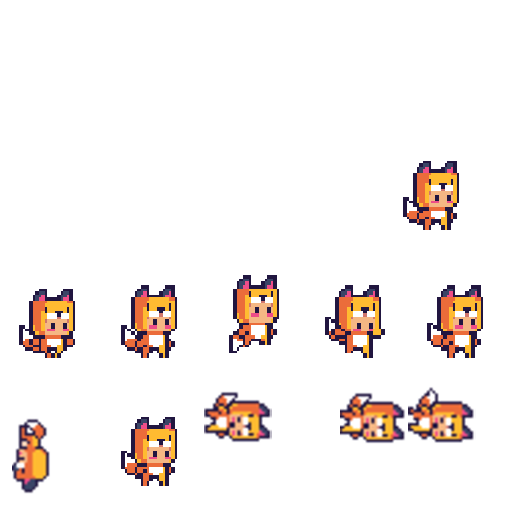
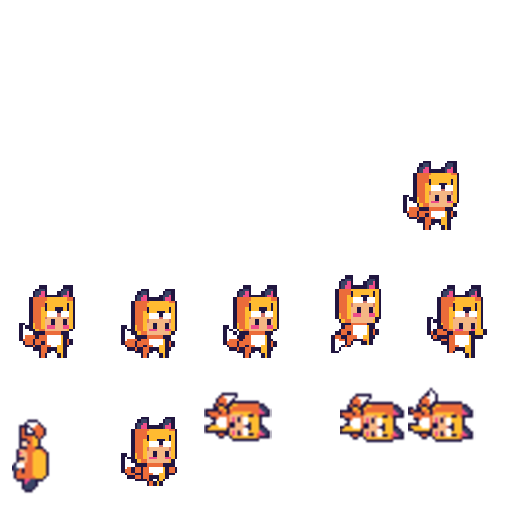
Add files via upload

diff --git a/jogofox/scripts/c3runtime.js b/jogofox/scripts/c3runtime.js
@@ -1259,6 +1259,11 @@ self["C3_Shaders"] = {};
 {const e=self.C3;e.Behaviors.scrollto=class extends e.SDKBehaviorBase{constructor(e){super(e),this._shakeMag=0,this._shakeStart=0,this._shakeEnd=0,this._shakeMode=0}Release(){super.Release()}SetShakeMagnitude(e){this._shakeMag=e}GetShakeMagnitude(){return this._shakeMag}SetShakeStart(e){this._shakeStart=e}GetShakeStart(){return this._shakeStart}SetShakeEnd(e){this._shakeEnd=e}GetShakeEnd(){return this._shakeEnd}SetShakeMode(e){this._shakeMode=e}GetShakeMode(){return this._shakeMode}}}{const e=self.C3;e.Behaviors.scrollto.Type=class extends e.SDKBehaviorTypeBase{constructor(e){super(e)}Release(){super.Release()}OnCreate(){}}}{const e=self.C3,t=0;e.Behaviors.scrollto.Instance=class extends e.SDKBehaviorInstanceBase{constructor(e,s){super(e),this._isEnabled=!0,s&&(this._isEnabled=s[t]),this._isEnabled&&this._StartTicking2()}Release(){super.Release()}SaveToJson(){const e=this.GetBehavior();return{"e":this._isEnabled,"smg":e.GetShakeMagnitude(),"ss":e.GetShakeStart(),"se":e.GetShakeEnd(),"smd":e.GetShakeMode()}}LoadFromJson(e){const t=this.GetBehavior();t.SetShakeMagnitude(e["smg"]),t.SetShakeStart(e["ss"]),t.SetShakeEnd(e["se"]),t.SetShakeMode(e["smd"]),this._isEnabled=e["e"],this._isEnabled?this._StartTicking2():this._StopTicking2()}_SetEnabled(e){this._isEnabled=!!e,this._isEnabled?this._StartTicking2():this._StopTicking2()}IsEnabled(){return this._isEnabled}Tick2(){if(!this.IsEnabled())return;const t=this.GetBehavior(),s=t.GetInstances();let a=0,i=0,h=0,n=0;for(const t of s){const s=t.GetBehaviorInstanceFromCtor(e.Behaviors.scrollto);if(!s||!s.GetSdkInstance().IsEnabled())continue;n=Math.max(n,t.GetActiveTimeScale());const r=t.GetWorldInfo();a+=r.GetX(),i+=r.GetY(),++h}const r=this._inst.GetWorldInfo().GetLayout(),o=this._runtime.GetGameTime();let S=0,l=0;const d=(t.GetShakeEnd()-t.GetShakeStart())/n;if(o>=t.GetShakeStart()&&o<t.GetShakeStart()+d&&n>0){let e=t.GetShakeMagnitude()*Math.min(n,1);0===t.GetShakeMode()&&(e*=1-(o-t.GetShakeStart())/d);const s=this._runtime.Random()*Math.PI*2,a=this._runtime.Random()*e;S=Math.cos(s)*a,l=Math.sin(s)*a}r.SetScrollX(a/h+S),r.SetScrollY(i/h+l)}GetPropertyValueByIndex(e){if(e===t)return this._isEnabled}SetPropertyValueByIndex(e,s){if(e===t)this._isEnabled=!!s,this._isEnabled?this._StartTicking2():this._StopTicking2()}GetDebuggerProperties(){return[{title:"$"+this.GetBehaviorType().GetName(),properties:[{name:"behaviors.scrollto.properties.enabled.name",value:this.IsEnabled(),onedit:e=>this._SetEnabled(e)}]}]}}}self.C3.Behaviors.scrollto.Cnds={IsEnabled(){return this.IsEnabled()}};self.C3.Behaviors.scrollto.Acts={Shake(e,t,s){const a=this.GetBehavior();a.SetShakeMagnitude(e),a.SetShakeStart(this._runtime.GetGameTime()),a.SetShakeEnd(this._runtime.GetGameTime()+t),a.SetShakeMode(s)},SetEnabled(e){this._SetEnabled(0!==e)}};self.C3.Behaviors.scrollto.Exps={};
 }
 
+// scripts/behaviors/Sin/c3runtime/runtime.js
+{
+{const e=self.C3;e.Behaviors.Sin=class extends e.SDKBehaviorBase{constructor(e){super(e)}Release(){super.Release()}}}{const e=self.C3;e.Behaviors.Sin.Type=class extends e.SDKBehaviorTypeBase{constructor(e){super(e)}Release(){super.Release()}OnCreate(){}}}{const e=self.C3,t=self.C3X,i=self.IBehaviorInstance,s=0,a=1,n=2,h=3,_=4,r=5,o=6,l=7,u=8,d=0,m=1,g=2,v=3,c=4,p=5,G=6,b=7,S=8,V=9,w=0,P=1,M=2,I=3,f=4,k=2*Math.PI,W=Math.PI/2,R=3*Math.PI/2,E=[0,1,8,3,4,2,5,6,9,7];e.Behaviors.Sin.Instance=class extends e.SDKBehaviorInstanceBase{constructor(t,i){super(t),this._i=0,this._movement=0,this._wave=0,this._period=0,this._mag=0,this._isEnabled=!0,this._basePeriod=0,this._basePeriodOffset=0,this._baseMag=0,this._periodRandom=0,this._periodOffsetRandom=0,this._magnitudeRandom=0,this._initialValue=0,this._initialValue2=0,this._lastKnownValue=0,this._lastKnownValue2=0,this._ratio=0,i&&(this._movement=E[i[s]],this._wave=i[a],this._periodRandom=this._runtime.Random()*i[h],this._basePeriod=i[n],this._period=i[n],this._period+=this._periodRandom,this._basePeriodOffset=i[_],0!==this._period&&(this._periodOffsetRandom=this._runtime.Random()*i[r],this._i=i[_]/this._period*k,this._i+=this._periodOffsetRandom/this._period*k),this._magnitudeRandom=this._runtime.Random()*i[l],this._baseMag=i[o],this._mag=i[o],this._mag+=this._magnitudeRandom,this._isEnabled=!!i[u]),this._movement===p&&(this._mag=e.toRadians(this._mag)),this.Init(),this._isEnabled&&this._StartTicking()}Release(){super.Release()}SaveToJson(){return{"i":this._i,"e":this._isEnabled,"mv":this._movement,"w":this._wave,"p":this._period,"mag":this._mag,"iv":this._initialValue,"iv2":this._initialValue2,"r":this._ratio,"lkv":this._lastKnownValue,"lkv2":this._lastKnownValue2}}LoadFromJson(e){this._i=e["i"],this._SetEnabled(e["e"]),this._movement=e["mv"],this._wave=e["w"],this._period=e["p"],this._mag=e["mag"],this._initialValue=e["iv"],this._initialValue2=e["iv2"],this._ratio=e["r"],this._lastKnownValue=e["lkv"],this._lastKnownValue2=e["lkv2"]}Init(){const e=this._inst.GetWorldInfo();switch(this._movement){case d:this._initialValue=e.GetX();break;case m:this._initialValue=e.GetY();break;case g:this._initialValue=e.GetWidth(),this._ratio=e.GetHeight()/e.GetWidth();break;case v:this._initialValue=e.GetWidth();break;case c:this._initialValue=e.GetHeight();break;case p:this._initialValue=e.GetAngle();break;case G:this._initialValue=e.GetOpacity();break;case b:this._initialValue=0;break;case S:this._initialValue=e.GetX(),this._initialValue2=e.GetY();break;case V:this._initialValue=e.GetZ()}this._lastKnownValue=this._initialValue,this._lastKnownValue2=this._initialValue2}WaveFunc(e){switch(e%=k,this._wave){case w:return Math.sin(e);case P:return e<=W?e/W:e<=R?1-2*(e-W)/Math.PI:(e-R)/W-1;case M:return 2*e/k-1;case I:return-2*e/k+1;case f:return e<Math.PI?-1:1}return 0}Tick(){const e=this._runtime.GetDt(this._inst);this._isEnabled&&0!==e&&(0===this._period?this._i=0:this._i=(this._i+e/this._period*k)%k,this._UpdateFromPhase())}_UpdateFromPhase(){const t=this._inst.GetWorldInfo();switch(this._movement){case d:t.GetX()!==this._lastKnownValue&&(this._initialValue+=t.GetX()-this._lastKnownValue),t.SetX(this._initialValue+this.WaveFunc(this._i)*this._mag),this._lastKnownValue=t.GetX();break;case m:t.GetY()!==this._lastKnownValue&&(this._initialValue+=t.GetY()-this._lastKnownValue),t.SetY(this._initialValue+this.WaveFunc(this._i)*this._mag),this._lastKnownValue=t.GetY();break;case g:t.SetWidth(this._initialValue+this.WaveFunc(this._i)*this._mag),t.SetHeight(t.GetWidth()*this._ratio);break;case v:t.SetWidth(this._initialValue+this.WaveFunc(this._i)*this._mag);break;case c:t.SetHeight(this._initialValue+this.WaveFunc(this._i)*this._mag);break;case p:t.GetAngle()!==this._lastKnownValue&&(this._initialValue=e.clampAngle(this._initialValue+(t.GetAngle()-this._lastKnownValue))),t.SetAngle(this._initialValue+this.WaveFunc(this._i)*this._mag),this._lastKnownValue=t.GetAngle();break;case G:t.SetOpacity(this._initialValue+this.WaveFunc(this._i)*this._mag/100);break;case S:t.GetX()!==this._lastKnownValue&&(this._initialValue+=t.GetX()-this._lastKnownValue),t.GetY()!==this._lastKnownValue2&&(this._initialValue2+=t.GetY()-this._lastKnownValue2),t.SetX(this._initialValue+Math.cos(t.GetAngle())*this.WaveFunc(this._i)*this._mag),t.SetY(this._initialValue2+Math.sin(t.GetAngle())*this.WaveFunc(this._i)*this._mag),this._lastKnownValue=t.GetX(),this._lastKnownValue2=t.GetY();break;case V:t.SetZ(this._initialValue+this.WaveFunc(this._i)*this._mag)}t.SetBboxChanged()}_OnSpriteFrameChanged(e,t){}_SetPeriod(e){this._period=e}_GetPeriod(){return this._period}_SetMagnitude(e){this._mag=e}_SetMagnitude_ConvertAngle(t){5===this._movement&&(t=e.toRadians(t)),this._SetMagnitude(t)}_GetMagnitude(){return this._mag}_GetMagnitude_ConvertAngle(){let t=this._GetMagnitude();return 5===this._movement&&(t=e.toDegrees(t)),t}_SetMovement(t){5===this._movement&&5!==t&&(this._mag=e.toDegrees(this._mag)),this._movement=t,this.Init()}_GetMovement(){return this._movement}_SetWave(e){this._wave=e}_GetWave(){return this._wave}_SetPhase(t){this._i=e.clamp(t,0,2*Math.PI),this._UpdateFromPhase()}_GetPhase(){return this._i}_SetEnabled(e){this._isEnabled=!!e,this._isEnabled?this._StartTicking():this._StopTicking()}_IsEnabled(){return this._isEnabled}GetPropertyValueByIndex(e){switch(e){case s:return this._movement;case a:return this._wave;case n:return this._basePeriod;case o:return this._baseMag;case u:return this._isEnabled}}SetPropertyValueByIndex(t,i){switch(t){case s:this._movement=E[i],this.Init();break;case a:this._wave=i;break;case n:this._basePeriod=i,this._period=this._basePeriod+this._periodRandom,this._isEnabled||(0!==this._period?(this._i=this._basePeriodOffset/this._period*k,this._i+=this._periodOffsetRandom/this._period*k):this._i=0);break;case o:this._baseMag=i,this._mag=this._baseMag+this._magnitudeRandom,this._movement===p&&(this._mag=e.toRadians(this._mag));break;case u:this._isEnabled=!!i}}GetDebuggerProperties(){const e="behaviors.sin";return[{title:"$"+this.GetBehaviorType().GetName(),properties:[{name:e+".properties.enabled.name",value:this._IsEnabled(),onedit:e=>this._SetEnabled(e)},{name:e+".properties.period.name",value:this._GetPeriod(),onedit:e=>this._SetPeriod(e)},{name:e+".properties.magnitude.name",value:this._GetMagnitude_ConvertAngle(),onedit:e=>this._SetMagnitude_ConvertAngle(e)},{name:e+".debugger.value",value:this.WaveFunc(this._GetPhase())*this._GetMagnitude_ConvertAngle()}]}]}GetScriptInterfaceClass(){return self.ISineBehaviorInstance}};const C=new WeakMap,K=["horizontal","vertical","size","width","height","angle","opacity","value-only","forwards-backwards","z-elevation"],F=["sine","triangle","sawtooth","reverse-sawtooth","square"];self.ISineBehaviorInstance=class extends i{constructor(){super(),C.set(this,i._GetInitInst().GetSdkInstance())}set period(e){t.RequireFiniteNumber(e),C.get(this)._SetPeriod(e)}get period(){return C.get(this)._GetPeriod()}set magnitude(e){t.RequireFiniteNumber(e),C.get(this)._SetMagnitude(e)}get magnitude(){return C.get(this)._GetMagnitude()}set phase(e){C.get(this)._SetPhase(e)}get phase(){return C.get(this)._GetPhase()}set movement(e){t.RequireString(e);const i=K.indexOf(e);if(-1===i)throw new Error("invalid movement");C.get(this)._SetMovement(i)}get movement(){return K[C.get(this)._GetMovement()]}set wave(e){t.RequireString(e);const i=F.indexOf(e);if(-1===i)throw new Error("invalid wave");C.get(this)._SetWave(i)}get wave(){return F[C.get(this)._GetWave()]}get value(){const e=C.get(this);return e.WaveFunc(e._GetPhase())*e._GetMagnitude()}updateInitialState(){C.get(this).Init()}set isEnabled(e){C.get(this)._SetEnabled(!!e)}get isEnabled(){return C.get(this)._IsEnabled()}}}{const e=self.C3;e.Behaviors.Sin.Cnds={IsEnabled(){return this._IsEnabled()},CompareMovement(e){return this._GetMovement()===e},ComparePeriod(t,i){return e.compare(this._GetPeriod(),t,i)},CompareMagnitude(t,i){return e.compare(this._GetMagnitude_ConvertAngle(),t,i)},CompareWave(e){return this._GetWave()===e}}}self.C3.Behaviors.Sin.Acts={SetEnabled(e){this._SetEnabled(0!==e)},SetPeriod(e){this._SetPeriod(e)},SetMagnitude(e){this._SetMagnitude_ConvertAngle(e)},SetMovement(e){this._SetMovement(e)},SetWave(e){this._wave=e},SetPhase(e){const t=2*Math.PI;this._SetPhase(e*t%t)},UpdateInitialState(){this.Init()}};self.C3.Behaviors.Sin.Exps={CyclePosition(){return this._GetPhase()/(2*Math.PI)},Period(){return this._GetPeriod()},Magnitude(){return this._GetMagnitude_ConvertAngle()},Value(){return this.WaveFunc(this._GetPhase())*this._GetMagnitude_ConvertAngle()}};
+}
+
 // scripts/expTable.js
 {
 
@@ -1357,13 +1362,24 @@ function or(l, r)
 }
 
 self.C3_ExpressionFuncs = [
-		() => "walk",
-		() => "idle",
 		() => "inimigos",
+		p => {
+			const n0 = p._GetNode(0);
+			const n1 = p._GetNode(1);
+			return () => (n0.ExpObject() + (3 * n1.ExpInstVar()));
+		},
+		p => {
+			const n0 = p._GetNode(0);
+			return () => (n0.ExpInstVar() * (-1));
+		},
 		() => "die",
 		() => 0,
+		() => "fox",
+		() => "walk",
+		() => "idle",
 		() => -600,
-		() => "jump"
+		() => "jump",
+		() => "open"
 ];
 
 

diff --git a/jogofox/scripts/objRefTable.js b/jogofox/scripts/objRefTable.js
@@ -7,24 +7,28 @@ self.C3_GetObjectRefTable = function () {
 		C3.Plugins.Keyboard,
 		C3.Behaviors.Platform,
 		C3.Behaviors.scrollto,
-		C3.Plugins.Sprite.Cnds.OnCollision,
-		C3.Plugins.Sprite.Acts.Destroy,
-		C3.Plugins.Keyboard.Cnds.IsKeyDown,
-		C3.Plugins.System.Cnds.CompareBoolVar,
-		C3.Behaviors.Platform.Acts.SimulateControl,
-		C3.Plugins.Sprite.Acts.SetMirrored,
-		C3.Behaviors.Platform.Cnds.IsMoving,
-		C3.Plugins.Sprite.Acts.SetAnim,
-		C3.Behaviors.Platform.Cnds.IsOnFloor,
+		C3.Behaviors.Sin,
 		C3.Plugins.System.Cnds.IsGroupActive,
 		C3.Plugins.System.Cnds.EveryTick,
+		C3.Plugins.System.Cnds.CompareBoolVar,
+		C3.Behaviors.Platform.Acts.SimulateControl,
+		C3.Plugins.Sprite.Cnds.OnCollision,
+		C3.Plugins.Sprite.Acts.SetX,
+		C3.Plugins.Sprite.Exps.X,
+		C3.Plugins.Sprite.Acts.SetInstanceVar,
+		C3.Plugins.Sprite.Acts.SetAnim,
 		C3.Behaviors.Platform.Acts.SetEnabled,
 		C3.Plugins.System.Acts.SetBoolVar,
+		C3.Behaviors.Platform.Acts.SetVectorY,
+		C3.Behaviors.Platform.Acts.SetVectorX,
+		C3.Plugins.Sprite.Acts.Destroy,
+		C3.Plugins.Keyboard.Cnds.IsKeyDown,
+		C3.Plugins.Sprite.Acts.SetMirrored,
+		C3.Behaviors.Platform.Cnds.IsMoving,
+		C3.Behaviors.Platform.Cnds.IsOnFloor,
 		C3.Plugins.Sprite.Cnds.OnAnimFinished,
 		C3.Plugins.System.Acts.RestartLayout,
 		C3.Plugins.System.Acts.ResetGlobals,
-		C3.Behaviors.Platform.Acts.SetVectorY,
-		C3.Behaviors.Platform.Acts.SetVectorX,
 		C3.Behaviors.Platform.Cnds.IsJumping
 	];
 };
@@ -42,7 +46,7 @@ self.C3_JsPropNameTable = [
 	{fox: 0},
 	{fundo: 0},
 	{Solid: 0},
-	{Sprite: 0},
+	{Spike: 0},
 	{TiledBackground: 0},
 	{Sprite2: 0},
 	{TiledBackground2: 0},
@@ -51,6 +55,12 @@ self.C3_JsPropNameTable = [
 	{Cogu: 0},
 	{Sprite4: 0},
 	{colision: 0},
+	{Sprite3: 0},
+	{door: 0},
+	{colisionBat: 0},
+	{direcao: 0},
+	{Sine: 0},
+	{morcego: 0},
 	{morreu: 0}
 ];
 
@@ -62,7 +72,7 @@ self.InstanceType = {
 	PlanoDeFundoEmBlocos3: class extends self.ITiledBackgroundInstance {},
 	fox: class extends self.ISpriteInstance {},
 	fundo: class extends self.ISpriteInstance {},
-	Sprite: class extends self.ISpriteInstance {},
+	Spike: class extends self.ISpriteInstance {},
 	TiledBackground: class extends self.ITiledBackgroundInstance {},
 	Sprite2: class extends self.ISpriteInstance {},
 	TiledBackground2: class extends self.ITiledBackgroundInstance {},
@@ -70,5 +80,9 @@ self.InstanceType = {
 	TiledBackground4: class extends self.ITiledBackgroundInstance {},
 	Cogu: class extends self.ISpriteInstance {},
 	Sprite4: class extends self.ISpriteInstance {},
-	colision: class extends self.ISpriteInstance {}
+	colision: class extends self.ISpriteInstance {},
+	Sprite3: class extends self.ISpriteInstance {},
+	door: class extends self.ISpriteInstance {},
+	colisionBat: class extends self.ISpriteInstance {},
+	morcego: class extends self.ISpriteInstance {}
 }
